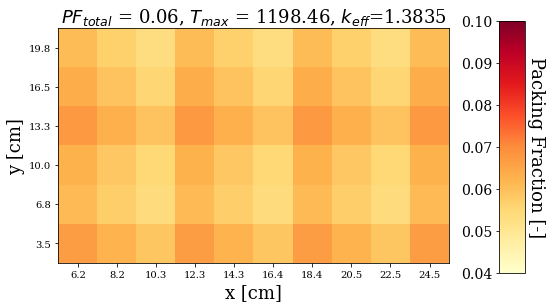
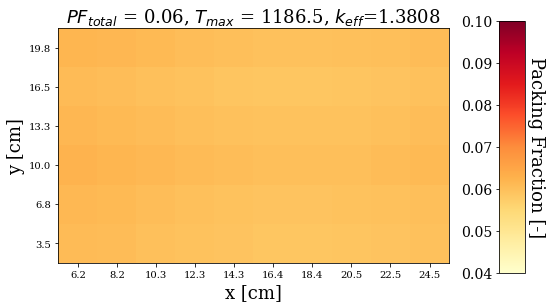
writing

diff --git a/docs/ahtr_rollo_assem_discussion.tex b/docs/ahtr_rollo_assem_discussion.tex
@@ -326,8 +326,8 @@ model have similar distributions with peaks on the even fuel cell columns.
 In simulation a-2a, \gls{ROLLO} found that the one-third assembly model with the 
 most-minimized $T_{max}$ objective, reactor model 9 (Figure 
 \ref{fig:assem-obj-2-pftemp-pareto-distr}), has an almost constant TRISO distribution.
-Figure \ref{fig:a-2a-temp-triso-comparison} compares simulation a-2a's reactor model 9 
-and simulation a-1b's most-minimized $T_{max}$ reactor model.  
+Figure \ref{fig:a-2a-temp-triso-comparison} compares simulation a-2a's most-minimized 
+$T_{max}$reactor model 9 and simulation a-1b's most-minimized $T_{max}$ reactor model.  
 % TODO: update these figs once a-1b finishes running
 \begin{figure}[htbp!]
     \centering
@@ -342,10 +342,9 @@ and simulation a-1b's most-minimized $T_{max}$ reactor model.
 Figure \ref{fig:a-2a-temp-triso-comparison} shows that simulation a-2a's most-minimized 
 $T_{max}$ reactor model and simulation a-1b's most-minimized $T_{max}$ reactor model 
 have similar almost constant TRISO distributions with packing fraction standard 
-deviations of $0.003$ and $0.004$, respectively.
+deviations of $0.003$ and $0.0009$, respectively.
 However, they have different $PF_{total}$ values. 
-% TODO: explain the scaling and why it doesnt look flat... ?? 
- 
+
 The \gls{TRISO} distributions on simulation a-2a's Pareto front in Figure 
 \ref{fig:assem-obj-2-pftemp} minimize both $PF_{total}$ and $T_{max}$, they vary
 between the two extreme cases: most-minimized $PF_{total}$ and most-minimized $T_{max}$. 
